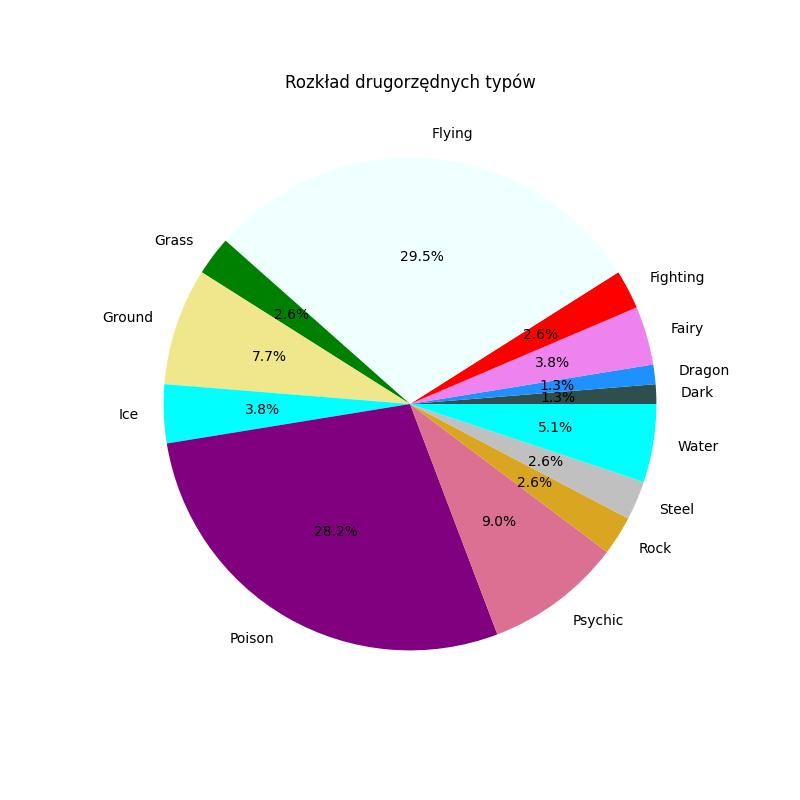
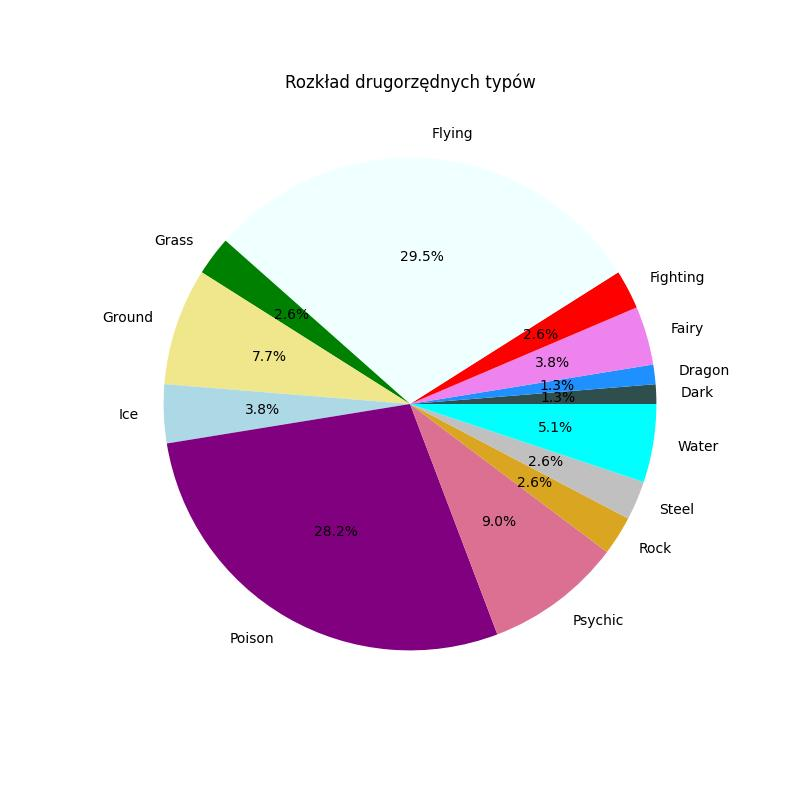
kolorki

Changed region(s): [[0.1875, 0.4688, 0.5, 0.5625]]

diff --git a/cz1/wizualizacja.py b/cz1/wizualizacja.py
@@ -75,7 +75,7 @@ plt.title("Wykres zależności ataku fizycznego od ataku specjalnego z krokiem 1
 plt.savefig("./wykresy/atk_od_spatk_ladniejszy.jpg")
 plt.clf()
 
-colors = {"Fire" : "orangered", "Water" : "aqua", "Grass" : "green", "Normal" : "lightsalmon", "Electric" : "yellow", "Bug" : "lightgreen", "Fighting" : "red", "Ground" : "khaki", "Rock" : "goldenrod", "Steel" : "silver", "Poison" : "purple", "Psychic" : "palevioletred", "Ghost" : "rebeccapurple", "Dark" : "darkslategray", "Ice" : "cyan", "Dragon" : "dodgerblue", "Fairy" : "violet", "Flying" : "azure"}
+colors = {"Fire" : "orangered", "Water" : "aqua", "Grass" : "green", "Normal" : "lightsalmon", "Electric" : "yellow", "Bug" : "lightgreen", "Fighting" : "red", "Ground" : "khaki", "Rock" : "goldenrod", "Steel" : "silver", "Poison" : "purple", "Psychic" : "palevioletred", "Ghost" : "rebeccapurple", "Dark" : "darkslategray", "Ice" : "lightblue", "Dragon" : "dodgerblue", "Fairy" : "violet", "Flying" : "azure"}
 
 #wykres kołowy rozkładu głównych typów
 dane_wykres = dane[["Type 1", "#"]].groupby(dane["Type 1"]).count()
